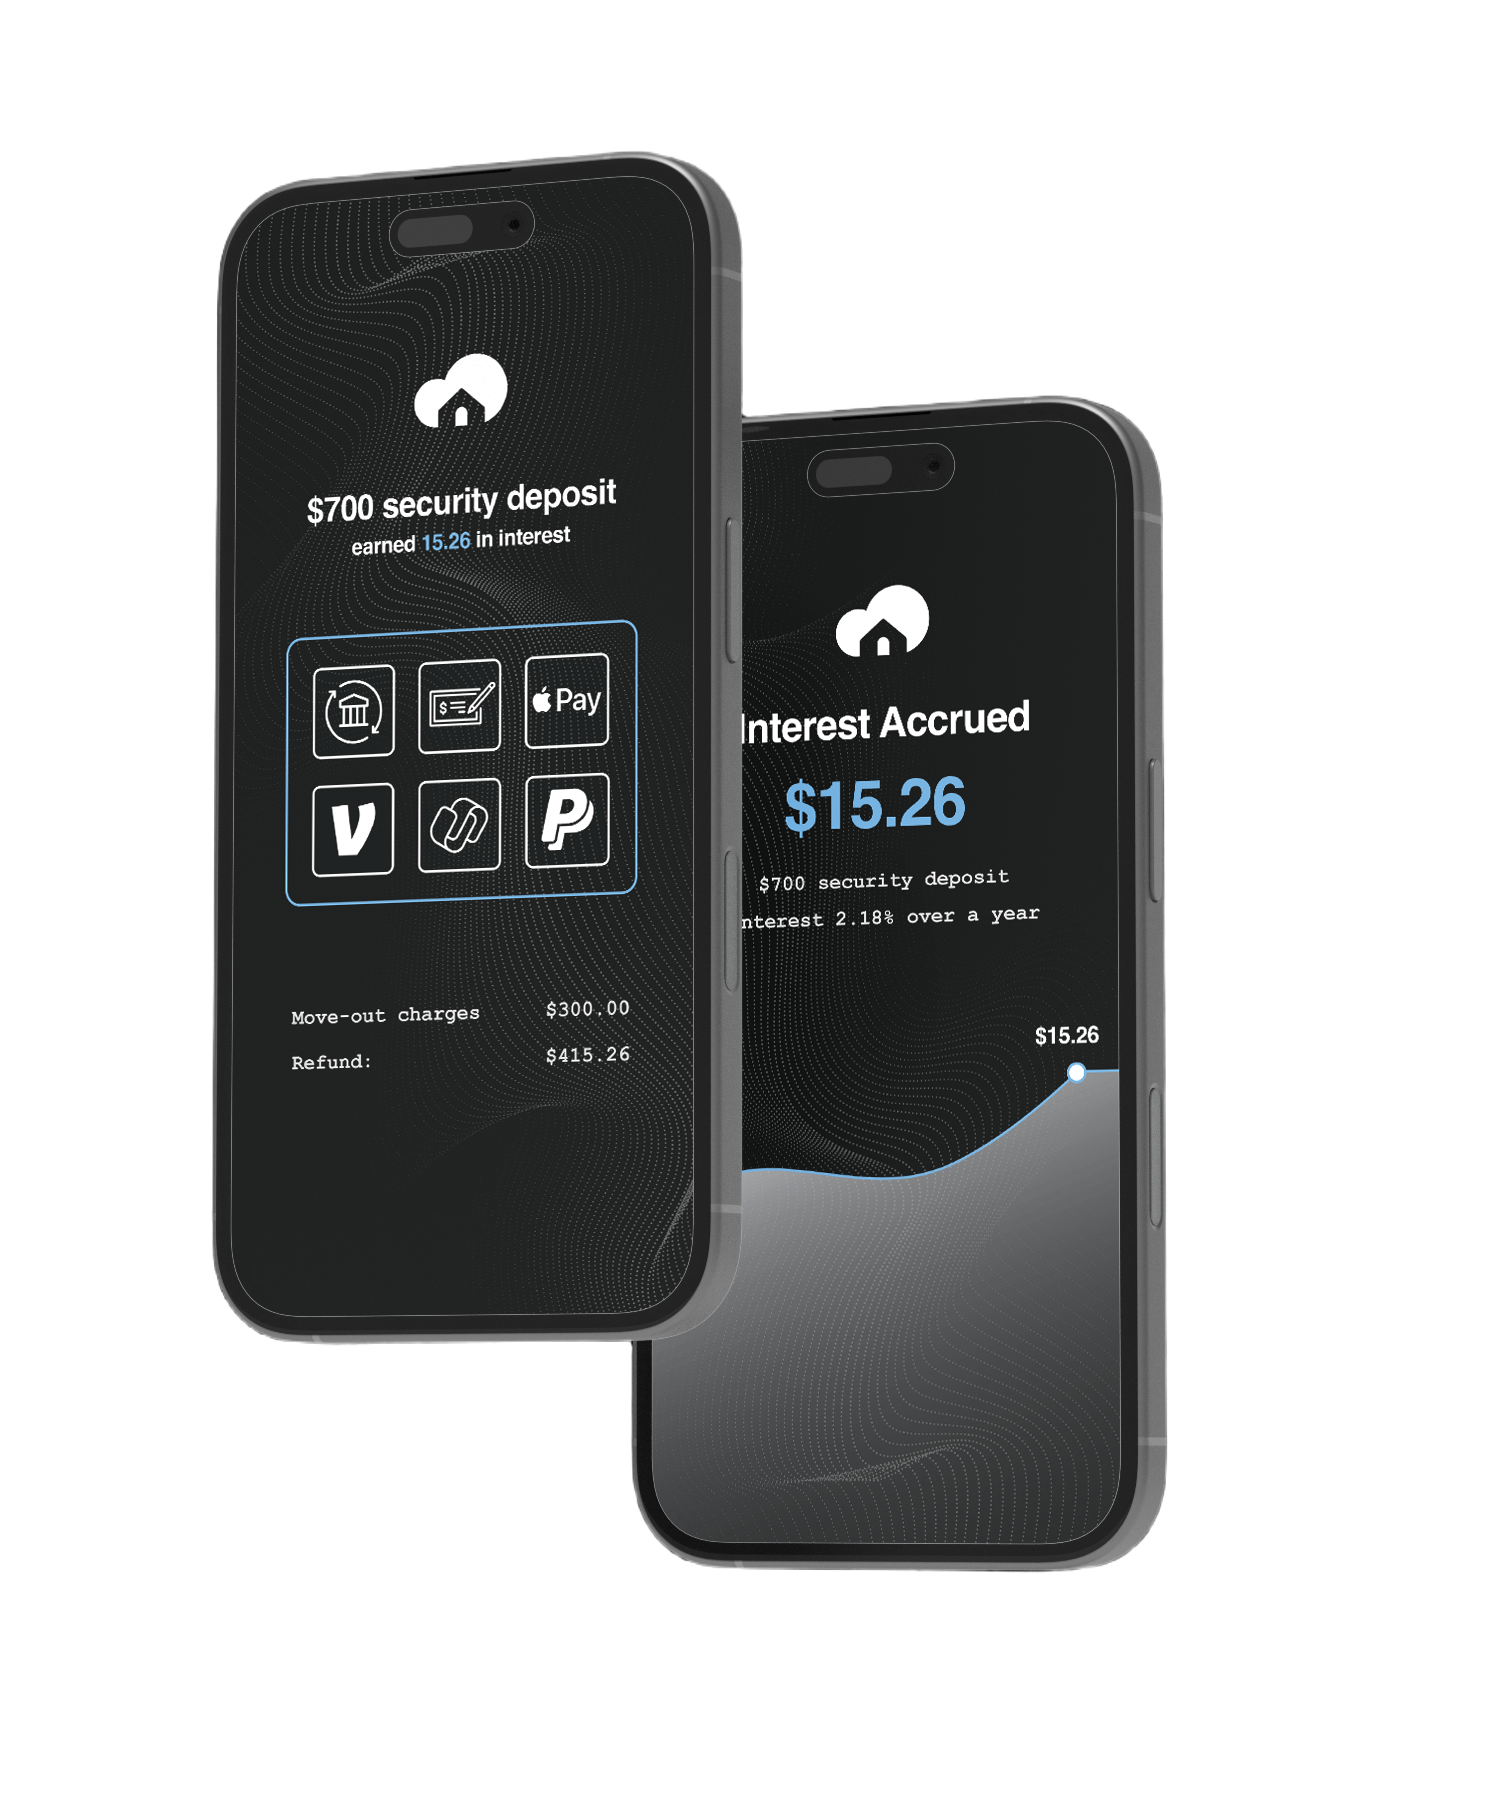
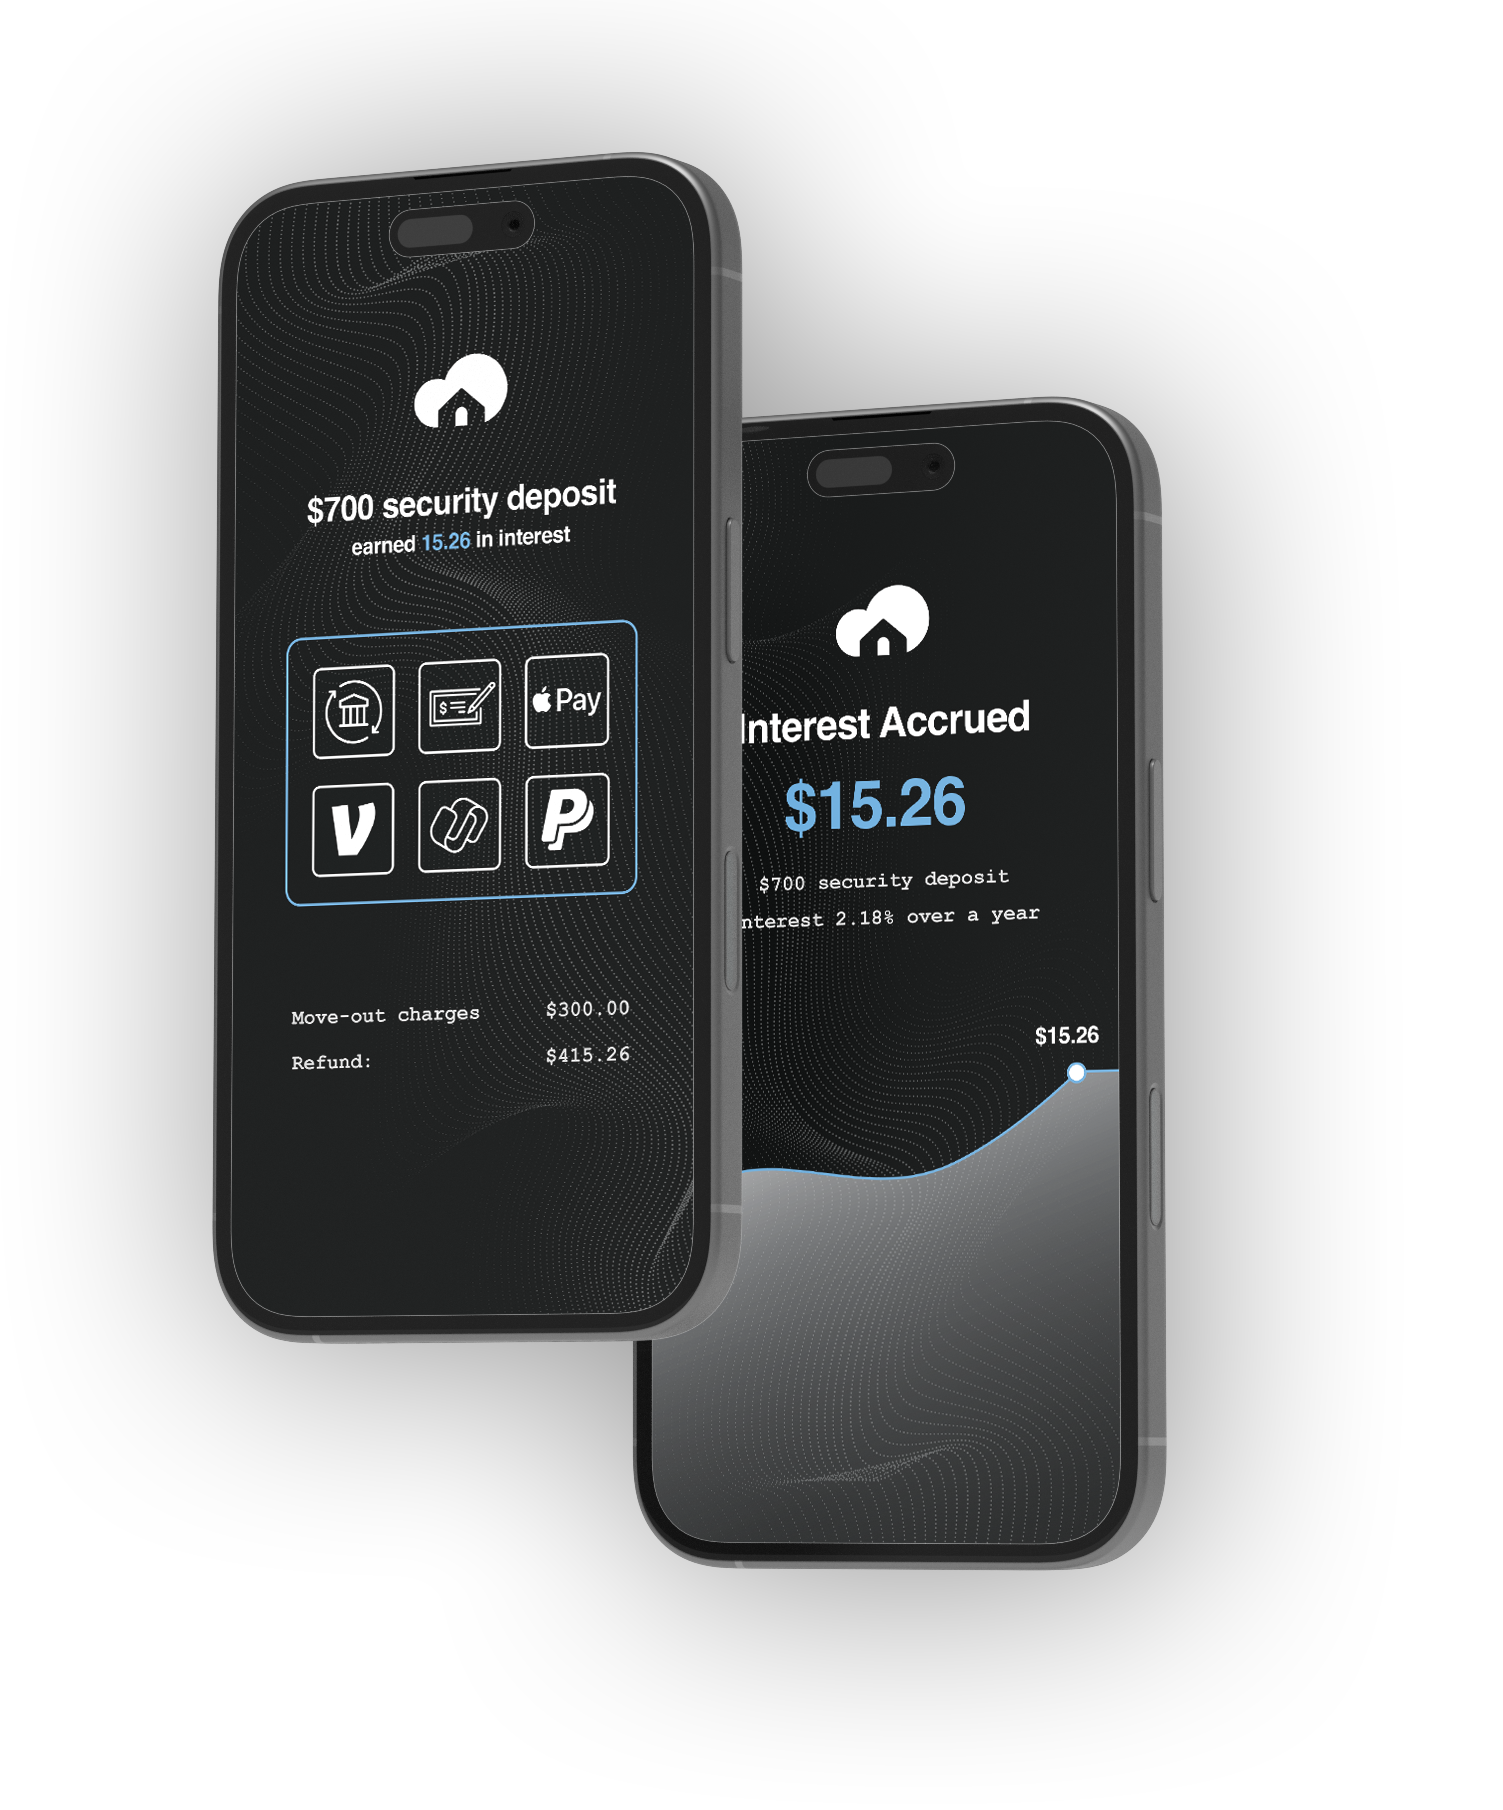
Adjust phone image sizes and positioning for better visual appeal
Update `UnifiedPlatformSection.tsx` to use the original `phones-v1.png`, remove CSS drop shadows, and adjust image sizing and positioning across mobile, tablet, and desktop views to match design references.

Replit-Commit-Author: Agent
Replit-Commit-Session-Id: 26bc80f6-6955-4526-b99d-af8d19739f16
Replit-Commit-Checkpoint-Type: full_checkpoint
Replit-Commit-Event-Id: 83c91cd3-4918-422a-a879-749e8d985c37
Replit-Commit-Screenshot-Url: https://storage.googleapis.com/screenshot-production-us-central1/d8417782-c3eb-403e-8b6d-d86c6b98833f/26bc80f6-6955-4526-b99d-af8d19739f16/kBALmlR
Replit-Helium-Checkpoint-Created: true

Changed region(s): [[0.0918, 0.0309, 0.857, 0.9282]]

diff --git a/src/components/sections/UnifiedPlatformSection.tsx b/src/components/sections/UnifiedPlatformSection.tsx
@@ -31,7 +31,7 @@ export const UnifiedPlatformSection = (): JSX.Element => {
       <div className="relative z-10 container mx-auto px-6 md:px-[37px] xl:px-4 max-w-[1112px]">
         <div className="flex flex-col xl:flex-row xl:items-start xl:justify-between gap-12 xl:gap-8">
           
-          <div className="flex flex-col gap-8 md:gap-12 xl:gap-[35px] flex-1 md:max-w-[55%] xl:max-w-[500px] relative z-20">
+          <div className="flex flex-col gap-8 md:gap-12 xl:gap-[35px] flex-1 md:max-w-[50%] xl:max-w-[500px] relative z-20">
             
             <div className="flex flex-col gap-6 md:gap-[35px]">
               <h2 className="font-h2 font-[number:var(--h2-font-weight)] text-[#2b2b2b] text-[28px] md:text-[32px] tracking-[-1.68px] md:tracking-[-1.92px] leading-normal">
@@ -63,7 +63,7 @@ export const UnifiedPlatformSection = (): JSX.Element => {
 
             <div className="md:hidden relative w-full max-w-[340px] mx-auto my-4">
               <img
-                className="w-full h-auto object-contain drop-shadow-2xl"
+                className="w-full h-auto object-contain"
                 alt="DepositCloud app screens"
                 src="/img/phones-v1.png"
                 loading="lazy"
@@ -101,9 +101,9 @@ export const UnifiedPlatformSection = (): JSX.Element => {
             </div>
           </div>
 
-          <div className="hidden md:block absolute top-[100px] right-[37px] w-[40%] max-w-[380px] z-10 xl:static xl:block xl:w-[628px] xl:max-w-none xl:flex-shrink-0 xl:mt-[80px]">
+          <div className="hidden md:block absolute top-[60px] right-0 w-[55%] z-10 xl:static xl:block xl:w-[580px] xl:max-w-none xl:flex-shrink-0 xl:mt-[40px]">
             <img
-              className="w-full h-auto object-contain drop-shadow-2xl"
+              className="w-full h-auto object-contain"
               alt="DepositCloud app screens"
               src="/img/phones-v1.png"
               loading="lazy"
